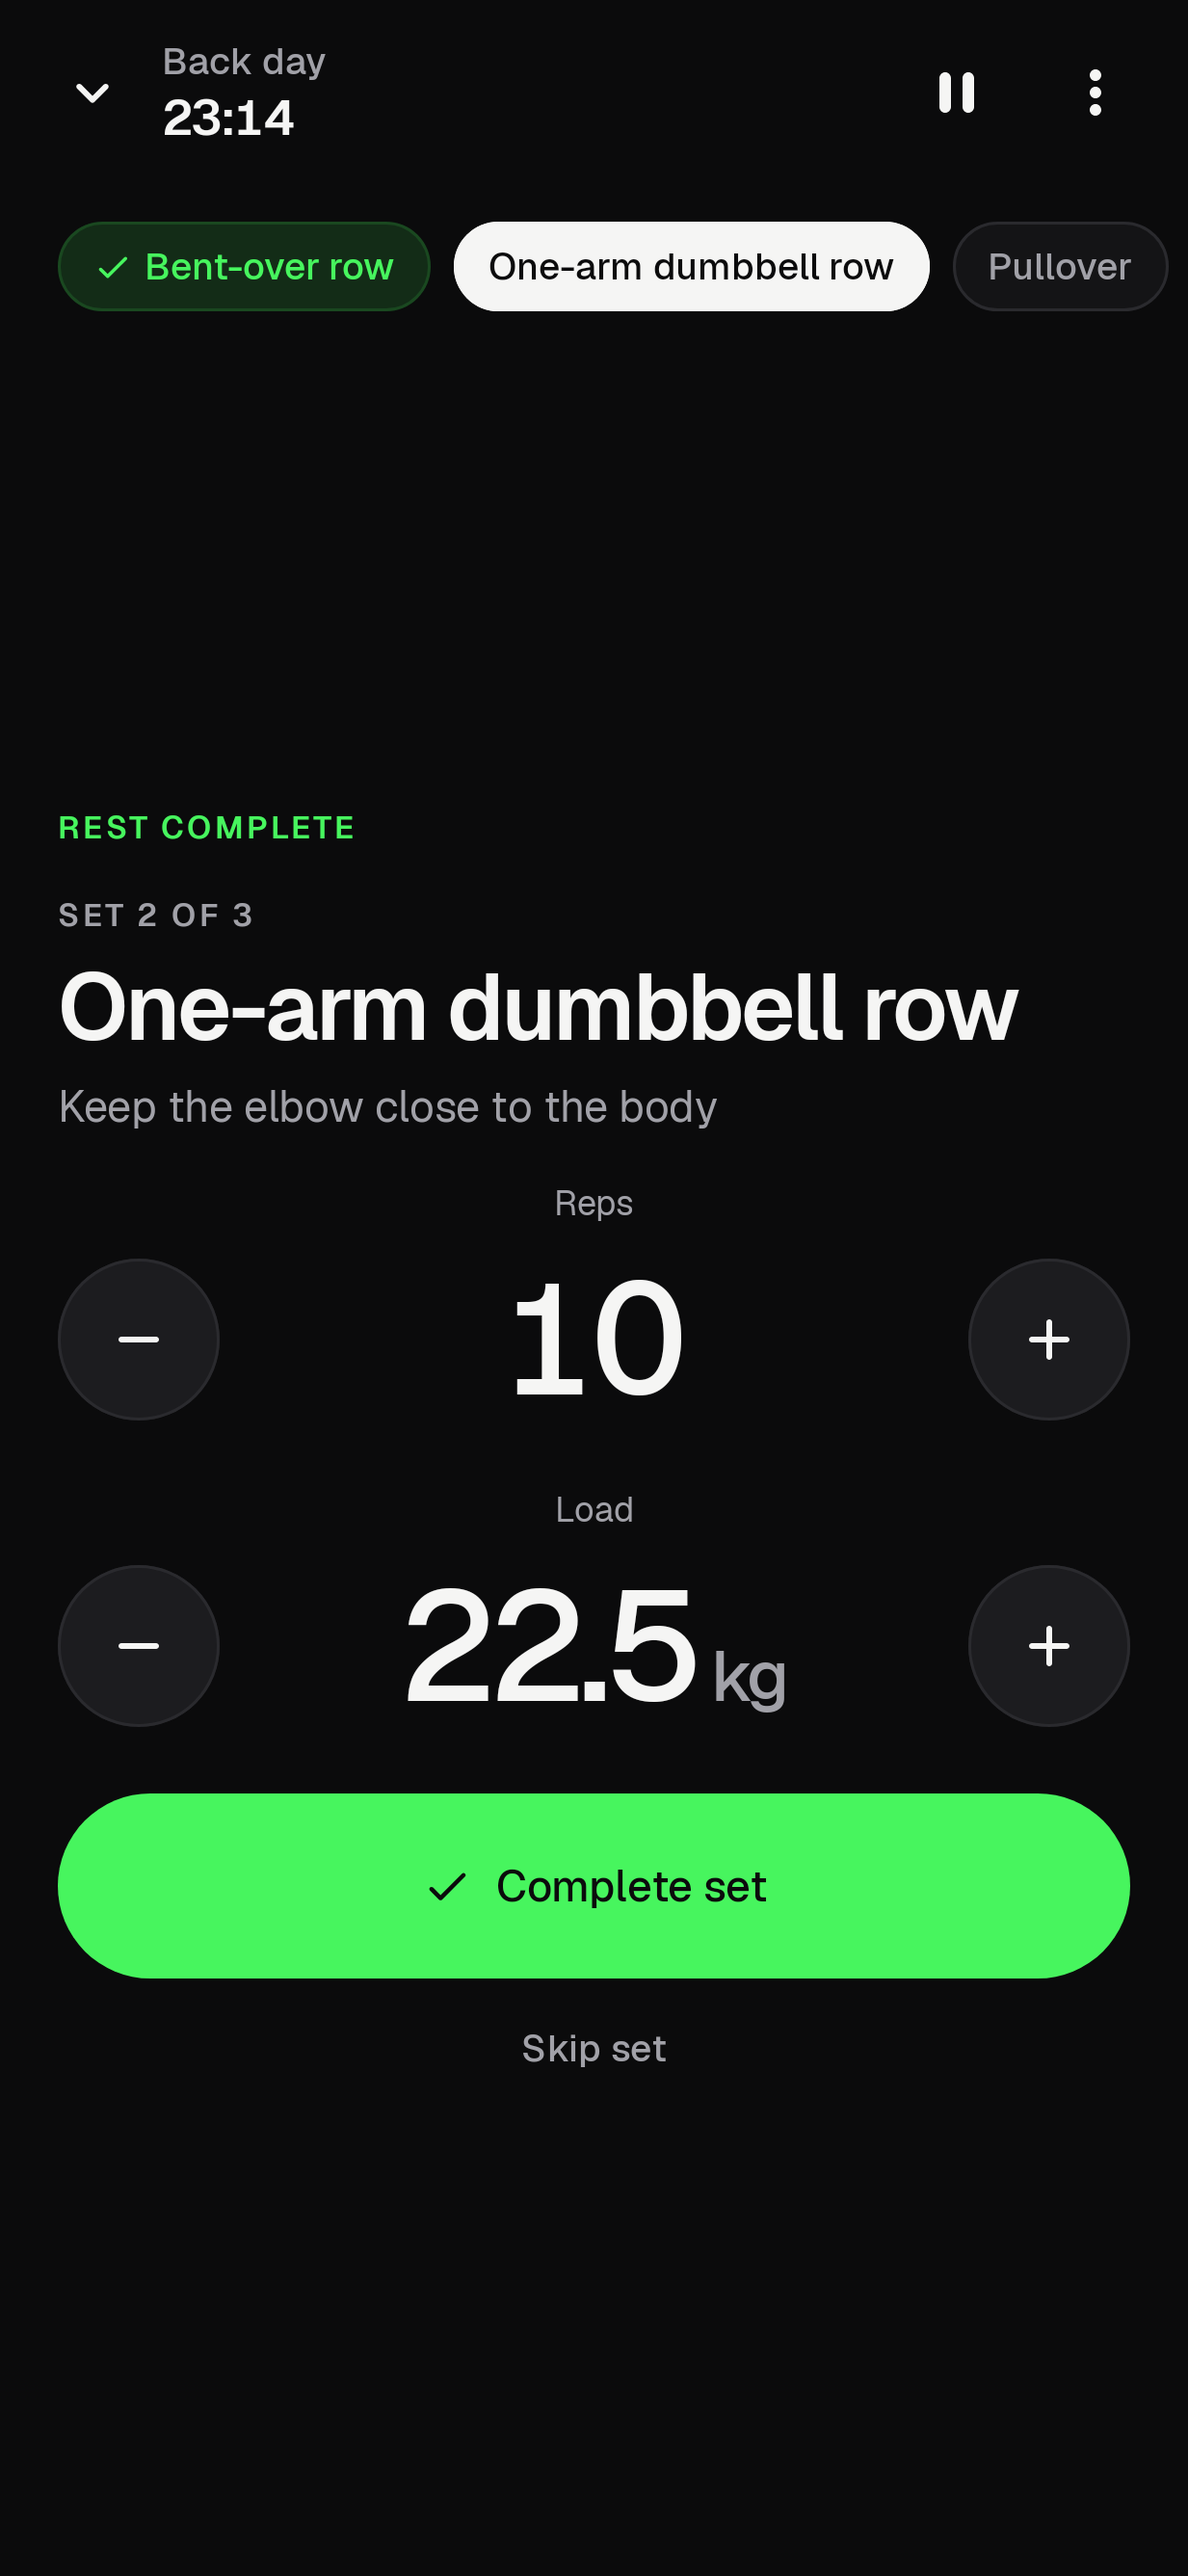
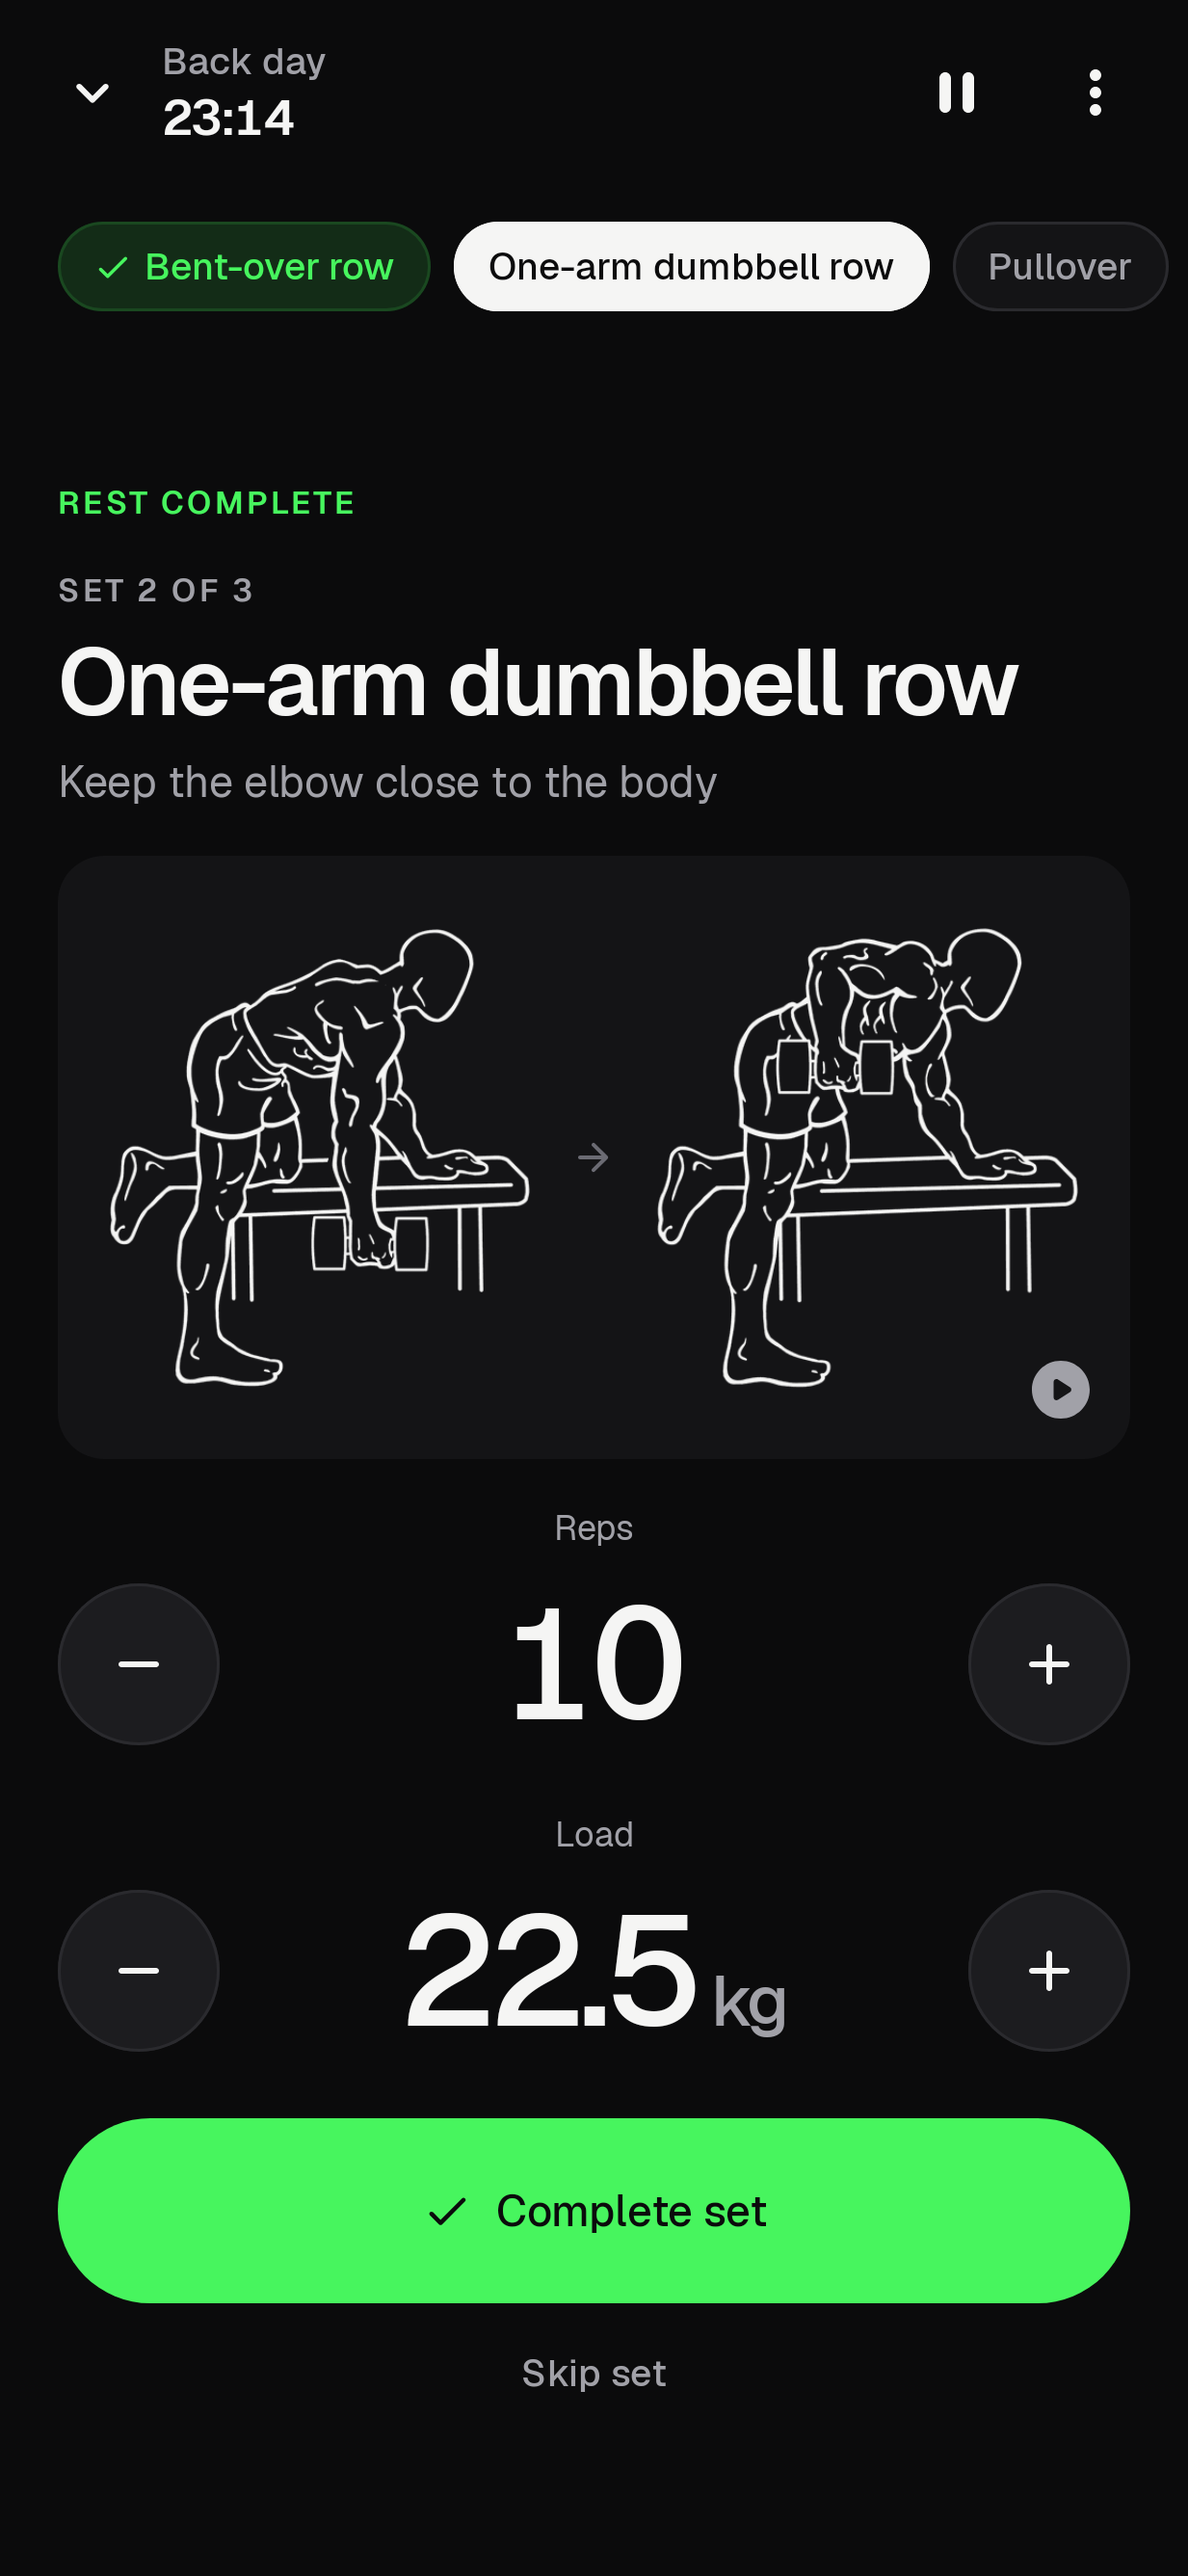
docs: describe exercise pictures, the v3 migration and third-party licenses

diff --git a/docs/ARCHITECTURE.md b/docs/ARCHITECTURE.md
@@ -23,7 +23,7 @@ Dependency rule: `domain` knows nothing about Android, except for the Tink libra
 | `domain/history` | `HistoryCalculator` (summaries, Mon–Sun weeks) |
 | `domain/body` | `Measure`, `BodyComparison` (differences, series, snapshot) |
 | `domain/backup` | v1 DTOs, header and encryption, zip + manifest, retention |
-| `data/db` | entities, DAOs, `MyFitDatabase` (v2), library seed |
+| `data/db` | entities, DAOs, `MyFitDatabase` (v3), library seed |
 | `data/repository` | workouts, exercises, session, history, body |
 | `data/backup` | `BackupManager`, `BackupKeyStore`, destinations (SAF/file), `FolderBackupWriter` |
 | `platform/session` | `SessionController`, `WorkoutService`, alarm, receivers, notifications |
@@ -42,7 +42,17 @@ body_assessment   body_photo
 - `startDateEpochDay` is the local day the session started: a workout that crosses midnight counts on its start day.
 - Images live in `filesDir/images/{exercises,body}/<uuid>.jpg`, downscaled to 1600 px and stripped of EXIF. The database stores only the relative path. Paths that would escape `images/` don't resolve to any file.
 - Schema exported to `app/schemas`. Any change requires a tested migration, because an installed APK already exists.
-- Database version 2 changed no tables: migration 1 → 2 (`ExerciseSeed.MIGRATION_1_2`) only adds the exercises introduced in library version 2, skipping names that already exist in either language, so user-created and deleted exercises are respected. Covered by `MigrationTest`, which builds a real version-1 database from `app/schemas/.../1.json`.
+- Database version 2 changed no tables: migration 1 → 2 (`ExerciseSeed.MIGRATION_1_2`) only adds the exercises introduced in library version 2, skipping names that already exist in either language, so user-created and deleted exercises are respected.
+- Database version 3 adds `seedKey` to `exercise` (unique) and `session_exercise` (snapshot). Migration 2 → 3 links existing library rows by name (either language; a row the user renamed stays unlinked), copies the key into session snapshots and adds the version-3 exercises. Keys are frozen in `app/src/test/resources/seed-keys.txt`.
+- `MigrationTest` builds real version-1 and version-2 databases from `app/schemas/.../1.json` and `2.json` and opens them with the current app.
+
+## Exercise pictures
+
+- **Drawings:** every library entry names a line drawing (`ExerciseSeed.art`). The files are alpha masks in `app/src/main/assets/exercises/<art>-1.webp` (start) and `-2.webp` (end, absent for static holds), tinted with the theme colour at draw time. `tools/exercise_art.py` (`uv run tools/exercise_art.py`) rebuilds them from pinned commits of Everkinetic and Workout Guide (both CC BY-SA 4.0); attribution is in the folder's `NOTICE.md` and in *Settings → Image credits*.
+- **Link:** the drawing is found through `exercise.seedKey`, never the name, so renaming a library exercise keeps it. Session snapshots carry the key too.
+- **Precedence** (`ExerciseVisual`, `ExerciseThumbnail`): the user's photo, then the drawing, then the muscle map.
+- **Muscle map** (`MuscleMap`): one fixed vector body, front and back, drawn in Compose from path data; the regions of the selected group use the accent colour. Full body lights everything; cardio and "other" light nothing.
+- **Video:** *Watch how to do it* opens a YouTube search for the exercise name with `ACTION_VIEW`; MyFit has no internet permission.
 
 ## Workout session
 
@@ -79,6 +89,8 @@ streaming AES-256-GCM-HKDF (Tink, 1 MiB segments, entire header as associated da
 - **Derivation**: the key comes from PBKDF2-HMAC-SHA256 (600k iterations, password normalized to NFKC) applied to the recovery password. The verifier is an HKDF of the key, not the key itself, and makes it possible to tell "wrong password" apart from "corrupted file".
 - **Storage**: the derived key is stored wrapped by an Android Keystore AES key that doesn't require unlocking, so the worker can run with the screen locked. If that key disappears (reinstall or cleared data), the state becomes LOCKED and the app asks for the password again.
 - **Third-party files**: weak parameters from an imported file are never adopted.
+
+Exercise and session DTOs carry an optional `seedKey`; restoring a backup made before version 3 links library rows by name inside the same transaction.
 
 **Restore** (`BackupManager.restore`):
 1. Refuses if a workout is in progress. Reads the header, gets the key (the device's, or the one derived from the typed password) and checks the verifier.

diff --git a/SPEC.md b/SPEC.md
@@ -67,8 +67,9 @@ MyFit is a single-user app: fast during the workout, 100% local, with encrypted 
 6. MUST allow creating, editing, duplicating and deleting workouts (name, optional description, ordered list of exercises), with no limit on how many.
 7. MUST allow adding, removing and reordering exercises in a workout.
 8. Each exercise in a workout MUST have: sets, reps per set, rest between sets (s), load (kg, optional) and notes.
-9. MUST offer a library of predefined exercises (name, muscle group, push/pull/legs/other movement type) with search and filtering by group.
-10. MUST allow creating custom exercises with an optional demo image picked from the gallery.
+9. MUST offer a library of predefined exercises (name, muscle group, push/pull/legs/other movement type, a line drawing of the start and end position) with search and filtering by group.
+10. MUST allow creating custom exercises with an optional demo image picked from the gallery; a photo picked by the user takes precedence over the library drawing.
+10a. SHOULD show a body map highlighting the exercise's muscle group (live while editing it, and as the picture of exercises without a photo or drawing) and offer a video search for the exercise, opened in another app.
 
 ### Workout execution
 
@@ -114,7 +115,8 @@ MyFit is a single-user app: fast during the workout, 100% local, with encrypted 
 
 ## Non-functional requirements
 
-- **Offline-first:** every feature works without internet; the app makes no network calls.
+- **Offline-first:** every feature works without internet; the app makes no network calls (the video search is handed to another app).
+- **Third-party content:** bundled illustrations keep their CC BY-SA license, with author, source, license and changes listed in the app.
 - **Reliability:** data preserved after a device restart; database with migrations tested from the first installed version; atomic (all-or-nothing) restore.
 - **Privacy and security:** no data collection, no analytics, no media permissions (system photo picker); backups encrypted with authentication (streaming AES-256-GCM, password-derived key); Android auto backup disabled so it doesn't copy keys that don't work on another device.
 - **Performance:** 60 fps UI during workout execution; smooth history queries and charts with 5 years of data (~1,500 sessions, ~60 assessments).
@@ -157,7 +159,6 @@ Platform components: a foreground service for the workout session, an exact alar
 - Supersets, drop sets and sets with different targets per set in planning (what was actually done is logged per set).
 - Automatic calculation of 1RM, volume per muscle group and personal records.
 - Home screen widgets, Wear OS and Android 16 Live Updates.
-- Demo images in the predefined library (only exercises with an image chosen by the user have one).
 - Other languages and imperial units.
 
 ## Open questions

diff --git a/README.md b/README.md
@@ -9,7 +9,7 @@ A personal, offline Android app to plan workouts, run them with a reliable rest 
 ## Features
 
 - **Workouts:** create, edit, duplicate, reorder (drag) and delete exercise sequences, with sets, reps, rest, load and notes per exercise.
-- **Library:** 93 predefined exercises, including bodyweight and kettlebell moves (in the device language), accent-insensitive search, muscle-group filters and custom exercises with a photo from the gallery.
+- **Library:** 152 predefined exercises (in the device language), each with a line drawing of the start and end position. Accent-insensitive search, muscle-group filters and custom exercises with a photo from the gallery. A body map highlights the worked muscle group (also the picture of custom exercises without a photo), and *Watch how to do it* opens a video search in YouTube or the browser.
 - **Workout mode:** an immersive screen with sets, automatic rest, ±15 s, pause/resume, skip set or exercise, adjustable load and reps, and a summary before saving.
 - **Reliable timer:** times come from persisted marks (wall clock + monotonic clock + boot count), never from UI counters. An exact alarm ends the rest with sound and vibration even with the screen locked. The ongoing notification has quick actions, and an interrupted session resumes where it stopped.
 - **History:** monthly calendar with training days, per-day sessions, per-set details and weekly/monthly summaries.
@@ -35,6 +35,7 @@ A personal, offline Android app to plan workouts, run them with a reliable rest 
   <img src="docs/screenshots/evolution_measures_dark.png" width="200" alt="Measurements">
   <img src="docs/screenshots/backup_dark.png" width="200" alt="Backup">
   <img src="docs/screenshots/settings_light.png" width="200" alt="Settings (light theme)">
+  <img src="docs/screenshots/exercise_editor_dark.png" width="200" alt="Exercise with drawing and body map">
 </p>
 
 ## Install
@@ -95,4 +96,7 @@ Kotlin 2.4 · Jetpack Compose + Material 3 (adaptive) · Navigation Compose (typ
 
 ## License
 
-[MIT](LICENSE). The bundled Geist font is under the SIL Open Font License 1.1 ([`docs/licenses/GEIST_OFL.txt`](docs/licenses/GEIST_OFL.txt)).
+[MIT](LICENSE), except for bundled third-party content:
+
+- **Geist font:** SIL Open Font License 1.1 ([`docs/licenses/GEIST_OFL.txt`](docs/licenses/GEIST_OFL.txt)).
+- **Exercise illustrations** (`app/src/main/assets/exercises/`): CC BY-SA 4.0, by [Everkinetic](https://github.com/everkinetic/data) and by Bryl Lim ([Workout Guide](https://github.com/bryllim/workout-guide)); one drawing via [wger](https://wger.de) under CC BY-SA 3.0. They were cropped, scaled and converted by [`tools/exercise_art.py`](tools/exercise_art.py); see the folder's [`NOTICE.md`](app/src/main/assets/exercises/NOTICE.md) and *Settings → Image credits* in the app.

diff --git a/docs/TESTING.md b/docs/TESTING.md
@@ -28,9 +28,14 @@ UI labels are quoted in English; on a phone set to Portuguese, the same labels a
 - [ ] Edit sets, reps, rest and load, typing "42,5" (comma). Reorder by dragging the handle.
 - [ ] Create a custom exercise with an image from the gallery. It shows up in the list and in the workout.
 - [ ] Duplicate the workout ("(copy)" appears) and delete the copy.
+- [ ] The library shows a drawing next to every predefined exercise. Open one: start → end drawing, the body map with its group in green, and "Watch how to do it" opens a YouTube search.
+- [ ] In the exercise editor, change the muscle group: the body map updates at once. Pick a photo: it replaces the drawing; remove it: the drawing comes back.
+- [ ] A custom exercise without a photo shows the body map in the list and during the workout.
+- [ ] *Settings → Image credits* lists the illustrations and their licenses; *About* shows "Developed by luannamorim".
 
 ### 2. Execution (with the app open)
 - [ ] Start: the first time, the app asks for notification permission. Accept it.
+- [ ] The set screen shows the exercise drawing (or the body map); the play button opens the video search.
 - [ ] Complete set → the rest starts on its own. Use +15 s and −15 s.
 - [ ] At the end of the rest: vibration, sound and a green pulse; "REST COMPLETE" appears.
 - [ ] Adjust the load with +/− and complete the set: the next set inherits the load.
@@ -70,6 +75,7 @@ UI labels are quoted in English; on a phone set to Portuguese, the same labels a
 
 ### 8. Update
 - [ ] Install a new version over the existing one (`adb install -r`): the data is kept.
+- [ ] Updating from 1.2: workouts and history are intact, the library gains the new exercises and the existing predefined ones show their drawings (a predefined exercise you renamed keeps no drawing).
 
 ## Known issues
 - The alarm icon appears in the status bar during the rest (`setAlarmClock`, chosen for its accuracy).
